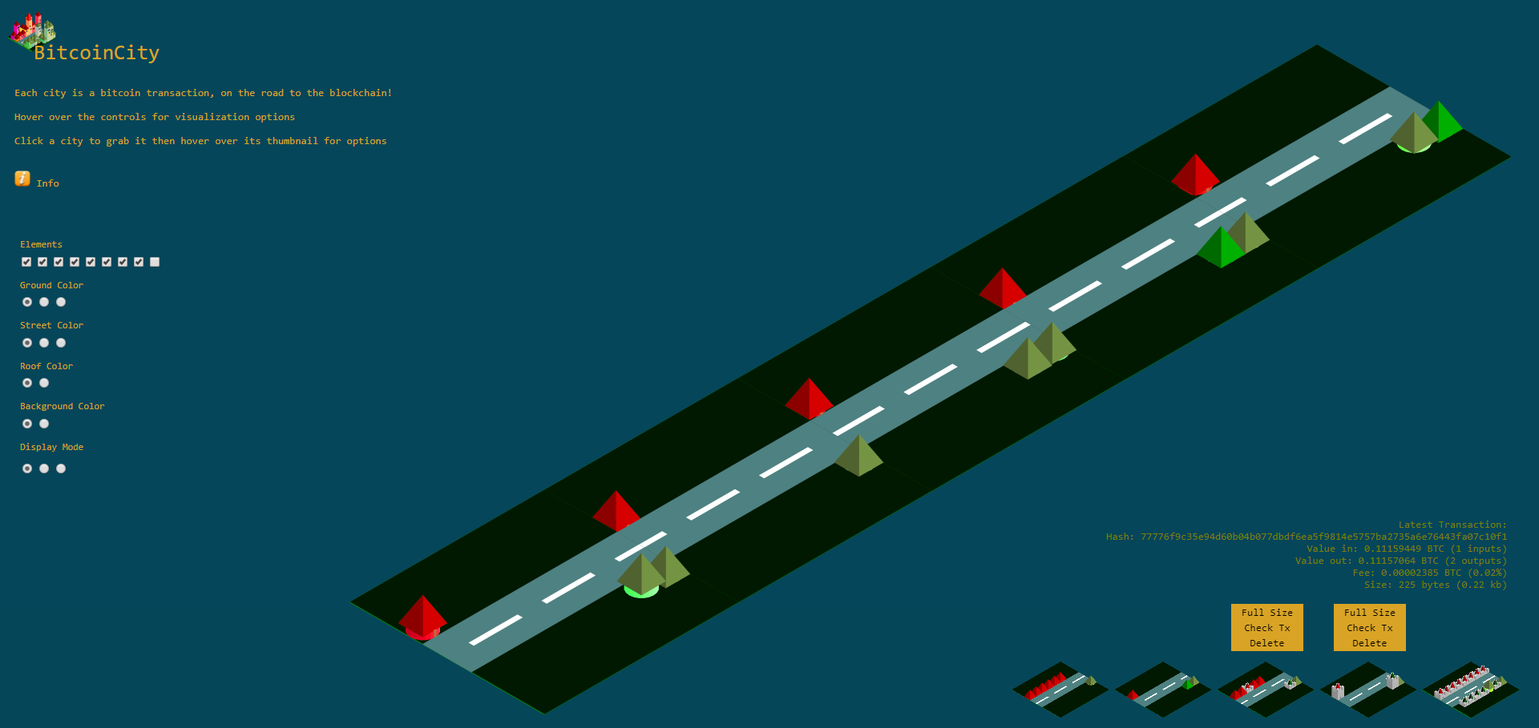
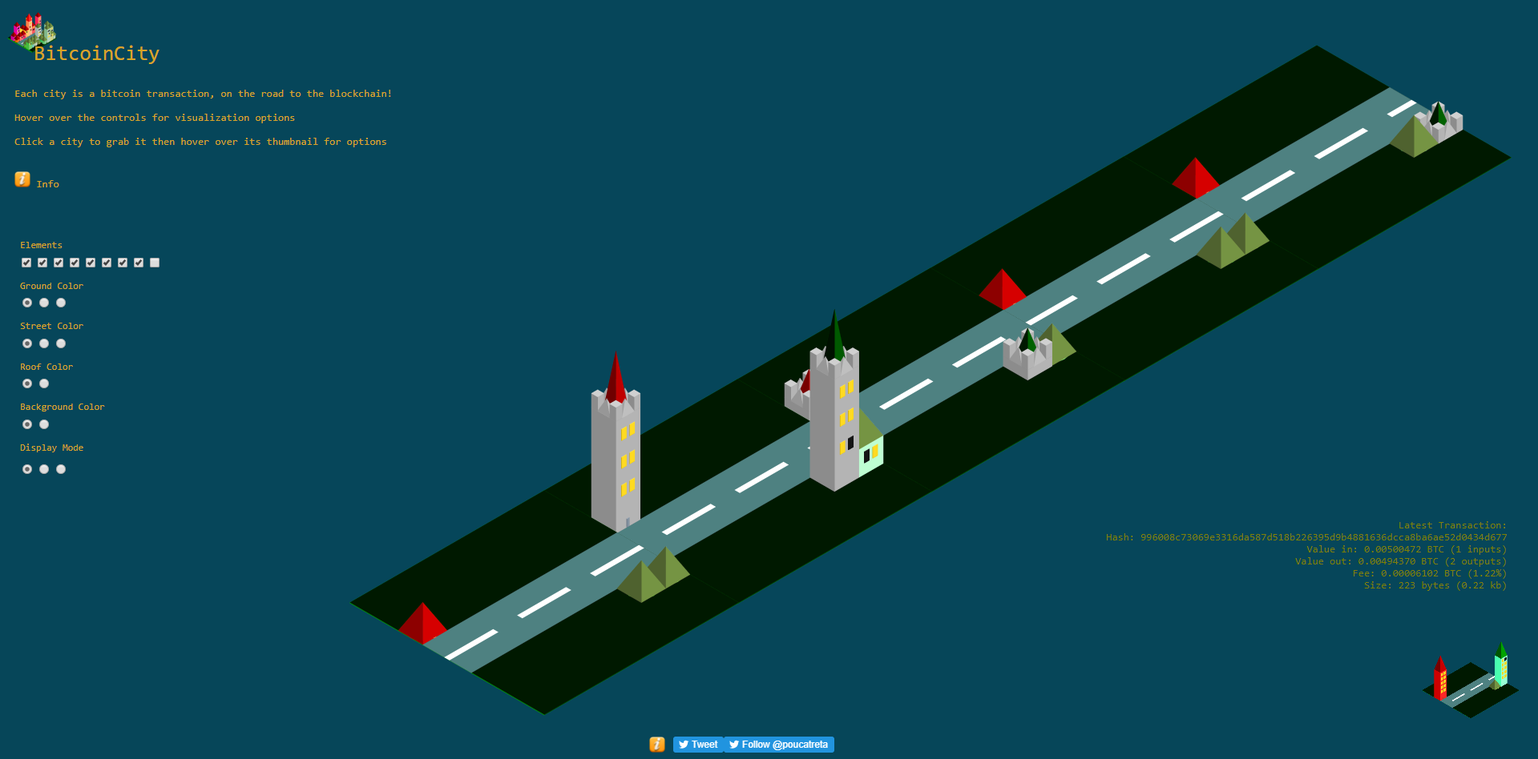
add related figures

diff --git a/chapters/c02_related_works.tex b/chapters/c02_related_works.tex
@@ -8,8 +8,6 @@ Since the blockchain technology is proposed, different methods for visualization
         An analysis of the consensus protocols on the blockchain networks is an interesting topic as it can reveal the potential applications on blockchain platforms.
 \end{itemize}
 
-% TODO: deep analyze the visualization
-
 \section{Visualization of Blockchain Information}
 
 There are some online tools and applications that provide visualization of the static status and information of transactions and blocks on Bitcoin network. Tri A. Sundara et al. \cite{Sundara2017} summarized 8 visualization applications and compared their visualization methods and technologies. We shortly review these applications here, so the main difference between our application and them can be identified clearly.
@@ -25,7 +23,7 @@ There are some online tools and applications that provide visualization of the s
             \label{fig:bitbonkers}
         \end{figure}
     \item \textbf{Bitnodes} \cite{bitnodes} \\
-        Bitnodes focused on the visualization of the distribution of nodes on Bitcoin network. The density of nodes can be observed clearly on the world map. (Figure \ref{fig:bitnodes})
+        Bitnodes focused on the visualization of the distribution of nodes on Bitcoin network. The density of nodes indicates the most active areas on Bitcoin network in the world.(Figure \ref{fig:bitnodes})
         \begin{figure}[htb]
             \centering
             \includegraphics[width=\textwidth]{related_bitnodes}
@@ -35,7 +33,7 @@ There are some online tools and applications that provide visualization of the s
     \clearpage
     \vspace*{\fill}
     \item \textbf{BitcoinCity} \cite{bitcoincity} \\
-        BitcoinCity is a cute visualization of Bitcoin. It used a road to chain the blocks, and the houses with different heights on both sides of the road represented transactions. (Figure \ref{fig:bitcoincity})
+        BitcoinCity built a small city as the visualization of Bitcoin. It used a road to chain the blocks, and the houses with different heights on both sides of the road represented transactions with different values. (Figure \ref{fig:bitcoincity})
         \begin{figure}[htb]
             \centering
             \includegraphics[width=\textwidth]{related_bitcoincity}
@@ -43,7 +41,7 @@ There are some online tools and applications that provide visualization of the s
             \label{fig:bitcoincity}
         \end{figure}
     \item \textbf{Blockseer} \cite{blockseer} \\
-        Blockseer visualized the detailed information of accounts, transactions or blocks with tree structures. (Figure \ref{fig:blockseer})
+        Blockseer located a mined transaction and visualized the outputs of the transaction. For example, the screenshot shows there are nine outputs of the transaction which in at the root of the tree structure. That is, the transaction is divided into nine parts which are delivered to different addresses respectively. (Figure \ref{fig:blockseer})
         \begin{figure}[htb]
             \centering
             \includegraphics[width=\textwidth]{related_blockseer}
@@ -54,7 +52,7 @@ There are some online tools and applications that provide visualization of the s
     \clearpage
     \vspace*{\fill}
     \item \textbf{DailyBlockchain} \cite{dailyblockchain} \\
-        DailyBlockchain  displayed the spread of dynamic and live Bitcoin network. (Figure \ref{fig:dailyblockchain})
+        DailyBlockchain displayed the mined transactions as the biological cells. The size of the cell are determined by the number of outputs of the transaction. The cells are generated from the center and spread toward every direction. (Figure \ref{fig:dailyblockchain})
         \begin{figure}[htb]
             \centering
             \includegraphics[width=\textwidth]{related_dailyblockchain}
@@ -62,7 +60,7 @@ There are some online tools and applications that provide visualization of the s
             \label{fig:dailyblockchain}
         \end{figure}
     \item \textbf{Elliptic} \cite{elliptic} \\
-        Elliptic visualized the whole history of Bitcoin like the Big Bang of the universe. (Figure \ref{fig:elliptic})
+        Elliptic visualized the whole history of Bitcoin like the Big Bang of the universe. However, the oldest blocks are placed at the center of the universe, which is opposite to the Big Bang theory in the reality. The blocks are divided by the dotted circles according to their birth years. (Figure \ref{fig:elliptic})
         \begin{figure}[htb]
             \centering
             \includegraphics[width=\textwidth]{related_elliptic}
@@ -72,7 +70,7 @@ There are some online tools and applications that provide visualization of the s
     \vspace*{\fill}
     \clearpage
     \item \textbf{Interaqt} \cite{interaqt} \\
-        Interaqt rendered the Bitcoin transactions as circles. (Figure \ref{fig:interaqt})
+        Interaqt gathered the mined transactions which are represented in circles into a big circle. The screen is empty at first, the more and more transactions will join into the big circle as time passes. (Figure \ref{fig:interaqt})
         \begin{figure}[htb]
             \centering
             \includegraphics[width=\textwidth]{related_interaqt}
@@ -80,7 +78,7 @@ There are some online tools and applications that provide visualization of the s
             \label{fig:interaqt}
         \end{figure}
     \item \textbf{Live Globe} \cite{liveglobe} \\
-        Live Globe combined the geographies of blocks and the earth together in the visualization. (Figure \ref{fig:live globe})
+        Live Globe combined the geographies of blocks and the earth together in the visualization. There are two blocks that are placed at the position of New York City in the screenshot. However, the color of the blocks are also green, so it is difficult to distinguish them. (Figure \ref{fig:live globe})
         \begin{figure}[htb]
             \centering
             \includegraphics[width=\textwidth]{related_liveglobe}
@@ -89,58 +87,141 @@ There are some online tools and applications that provide visualization of the s
         \end{figure}
 \end{itemize}
 
-In addition to the 2D and 3D animations of the visualization of Bitcoin, there are applications which use tabular methods as the presentation of blockchains. Blockchain \cite{blockchain} and Etherscan \cite{etherscan} displayed the information of transactions and blocks in detail on Bitcoin and Ethereum networks. The results of them are demonstrated in Figure \ref{fig:tabular visualization}.
+\clearpage
 
-\begin{figure}[htb]
-    \centering
-    \begin{subfigure}[b]{1\textwidth}
-        \centering
-        \includegraphics[width=\textwidth]{related_blockchain}
-        \caption{Blockchain}
-    \end{subfigure}
+In addition to the 2D and 3D animations of the visualization of Bitcoin, there are applications which use tabular methods as the visualization of blockchains.
 
-    \begin{subfigure}[b]{1\textwidth}
-        \centering
-        \includegraphics[width=\textwidth]{related_etherscan}
-        \caption{Etherscan}
-    \end{subfigure}
+\begin{itemize}
+    \item \textbf{Blockchain} \cite{blockchain} \\
+        The tabular (Figure \ref{fig:blocks by blockchain}) contains the height, the timestamp, the mined transactions, the total values, the size, etc. of mined blocks on Bitcoin network. The details information of a block can be viewed by selecting it, and then the list of included transactions with addresses, inputs, and outputs (Figure \ref{fig:transactions by blockchain}) is displayed.
 
-    \caption{Tabular Visualization.}
-    \label{fig:tabular visualization}
-\end{figure}
+        \begin{figure}[htb]
+            \centering
+            \begin{subfigure}[b]{1\textwidth}
+                \centering
+                \includegraphics[width=\textwidth]{related_blockchain}
+                \caption{Blocks by Blockchain.}
+                \label{fig:blocks by blockchain}
+            \end{subfigure}
 
-In short conclusion, although the above tools and applications showed amazing visualization methods of blockchains, their goals were to provide the static information and statistics instead of the dynamic mining processes that happened in a blockchain system. It is difficult to gain valuable understandings about the complex and dynamic mining processes in these applications.
+            \begin{subfigure}[b]{1\textwidth}
+                \centering
+                \includegraphics[width=\textwidth]{related_blockchain2}
+                \caption{Transactions by Blockchain}
+                \label{fig:transactions by blockchain}
+            \end{subfigure}
+
+            \caption{Blockchain.}
+        \end{figure}
+    \item \textbf{Etherscan} \cite{etherscan} \\
+        Etherscan which is for Ethereum network is similar to Blockchain, but it places the information of blocks and transactions in the same page. The top right part displays the line chart of the marketing value of Ethereum. The list of blocks is placed on the bottom left of the page, and the list of transactions is at the bottom right part. The details can also be checked by selecting individual blocks or transactions. (Figure \ref{fig:etherscan})
+        \begin{figure}[htb]
+            \centering
+            \includegraphics[width=\textwidth]{related_etherscan}
+            \caption{Etherscan.}
+            \label{fig:etherscan}
+        \end{figure}
+\end{itemize}
+
+In short conclusion, although the above tools and applications showed visualization methods of blockchains, their goals are to provide the static information and statistics instead of the dynamic mining processes that happen in a blockchain system. It is difficult to gain valuable understandings about the complex and dynamic mining processes in these applications.
 
 \section{Analysis of Bitcoin Transactions}
 
 As Bitcoin is the most popular and famous blockchain network currently, it is worth to explore the patterns of transactions and blocks to prevent malicious abuse of blockchain services. The nodes and transactions are anonymous on blockchain networks, so the recognition of patterns can be challengeable. Here we present some analysis methods and visualization technologies that can identify the relationships between nodes and transactions in time series on Bitcoin network.
 
+\clearpage
+
 \begin{itemize}
     \item \textbf{BitConeView: Visualization of Flows in the Bitcoin Transaction Graph} \cite{Battista2015} \\
-        Giuseppe Di Battista et al. provided a visualization tool called \textit{BitConeView} that analyzed the flows of bitcoins in the transactions by timestamps. It can be used to analyze the patterns of the flows of bitcoins and locate tainted transactions.
+        Giuseppe Di Battista et al. provided a visualization tool called \textit{BitConeView} that analyzed the flows of bitcoins in the transactions by timestamps. It can be used to analyze the patterns of the flows of bitcoins and locate tainted transactions. Figure \ref{fig:bitconeview} \cite{Battista2015} shows that the flows of bitcoins are visualized in time series, and the lifetime of a bitcoin can be tracked in the connected bars which are blocks.
+        \begin{figure}[htb]
+            \centering
+            \includegraphics[width=0.6\textwidth]{related_bitconeview}
+            \caption{BitConeView.}
+            \label{fig:bitconeview}
+        \end{figure}
     \item \textbf{Blockchain Explorer: An Analytical Process and Investigation Environment for Bitcoin} \cite{Kuzuno2017} \\
-        To prevent the criminal activities and illegal behaviors that abuse the services of Bitcoin, Hiroki Kuzuno et al. proposed an analyzing system which managed the data and statistics of blockchains for the usages of law enforcement investigation and training.
+        To prevent the criminal activities and illegal behaviors that abuse the services of Bitcoin, Hiroki Kuzuno et al. proposed an analyzing system which managed the data and statistics of blockchains for the usages of law enforcement investigation and training. 
+        Figure \ref{fig:analysis methods by blockchain explorer} \cite{Kuzuno2017} shows the analysis methods in the visualization. The line chart on the left side represents the balance of an address, and the bar charts on the right side represent the number of transactions in hours or weeks.
+        \begin{figure}[htb]
+            \centering
+            \includegraphics[width=0.7\textwidth]{related_blockchain_explorer}
+            \caption{Analysis methods by Blockchain Explorer.}
+            \label{fig:analysis methods by blockchain explorer}
+        \end{figure}
+        \clearpage
+        Figure \ref{fig:activities of an address by blockchain explorer} \cite{Kuzuno2017} displays the activities of an address in calendars. The bright squares indicate the time when the address published transactions.
+        \begin{figure}[htb]
+            \centering
+            \includegraphics[width=0.6\textwidth]{related_blockchain_explorer2}
+            \caption{Activities of an address by Blockchain Explorer.}
+            \label{fig:activities of an address by blockchain explorer}
+        \end{figure}
+
+        Figure \ref{fig:mappings of inputs and outputs in a transaction bblockchain explorer} \cite{Kuzuno2017} maps the inputs and outputs of a transaction into tree structures. As a result, the flows of bitcoins can be tracked by the input and output nodes. 
+        \begin{figure}[htb]
+            \centering
+            \includegraphics[width=0.4\textwidth]{related_blockchain_explorer3}
+            \caption{Mappings of inputs and outputs in a transaction by Blockchain Explorer.}
+            \label{fig:mappings of inputs and outputs in a transaction bblockchain explorer}
+        \end{figure}
+
+        With above visualization, the activities of an address and the mappings to the real identification can be explored.
+        \clearpage
     \item \textbf{Visualizing Dynamic Bitcoin Transaction Patterns} \cite{McGinn2016} \\
-        Dan McGinn et al. focused on visualizing transactions of Bitcoin from the top-down viewpoint. The visualization of the large scale of data provided domain experts and the general public a tool to analyze and identify the transaction patterns with big data visualization methods.
+        Dan McGinn et al. focused on visualizing transactions of Bitcoin from the top-down viewpoint. The visualization of the large scale of data provided domain experts and the general public a tool to analyze and identify the transaction patterns with big data visualization methods. Figure \ref{fig:visualization by dan mcGinn et al} \cite{McGinn2016} shows the visualization result. The blocks are connected by lines if they contain related transactions. Thus, different patterns can be identified in the graphs.
+        \begin{figure}[htb]
+            \centering
+            \includegraphics[width=0.4\textwidth]{related_McGinn}
+            \caption{Visualization by Dan McGinn et al.}
+            \label{fig:visualization by dan mcGinn et al}
+        \end{figure}
     \item \textbf{Bitcoin Visualization} \cite{Saublet2015} \\
-        The visual analytics tool that was proposed by Loïs Saublet enabled economists to analyze the metrics and actors on Bitcoin network and provided good user experience by working together with end users.
+        The visual analytics tool that was proposed by Loïs Saublet enabled economists to analyze the metrics and actors on Bitcoin network and provided good user experience by working together with end users. As in Figure \ref{fig:visualization by loïs saublet} \cite{Saublet2015} shows, a period of Bitcoin marketing values can be displayed by a line chart, and economists can examine it.
+        \begin{figure}[htb]
+            \centering
+            \includegraphics[width=0.8\textwidth]{related_Saublet}
+            \caption{Visualization by Loïs Saublet.}
+            \label{fig:visualization by loïs saublet}
+        \end{figure}
     \item \textbf{Bitcoin Transaction Graph Analysis} \cite{Fleder2015} \\
-        Michael Fleder et al. proposed a graph-analysis framework that could analyze the relationships between public addresses and transactions. It can be used to match candidate Bitcoin transactions with the transactions in the reality. As a result, it demonstrated that the transactions are not entirely anonymous on Bitcoin network.
+        Michael Fleder et al. proposed a graph-analysis framework that could analyze the relationships between public addresses and transactions. It can be used to match candidate Bitcoin transactions with the transactions in the reality. As a result, it demonstrated that the transactions are not entirely anonymous on Bitcoin network. Figure \ref{fig:visualization of the transaction graph} \cite{Fleder2015} shows the transaction graph which gathers the data in a whole day. The relationships of transactions can be identified via the connections. The thichness of the lines are the values, so several patterns such as large volume transactions can be analyzed.
+        \begin{figure}[htb]
+            \centering
+            \includegraphics[width=0.8\textwidth]{related_Fleder}
+            \caption{Visualization of the transaction graph.}
+            \label{fig:visualization of the transaction graph}
+        \end{figure}
     \item \textbf{Exploring the Bitcoin Network} \cite{Baumann2014} \\
-        The method proposed by Annika Baumann et al. employed graph mining algorithms to analyze the relationship of network usage and exchange rate. It served as the basis for the analysis of the anonymity and economic relationships on Bitcoin network.
+        The method proposed by Annika Baumann et al. employed graph mining algorithms to analyze the relationship of network usage and exchange rate. It served as the basis for the analysis of the anonymity and economic relationships on Bitcoin network. They used statistical bar charts or line charts for visualization as Figure \ref{fig:visualization by annika baumann et al} \cite{Baumann2014} shows.
+        \begin{figure}[htb]
+            \centering
+            \includegraphics[width=0.8\textwidth]{related_Baumann}
+            \caption{Visualization by Annika Baumann et al.}
+            \label{fig:visualization by annika baumann et al}
+        \end{figure}
 \end{itemize}
 
-In summary, the goals of the above tools and methods were to analyze the patterns and relationships of transactions and blocks. That is, they try to recognize patterns to prevent criminal activities and obtain economic inspiration. Therefore, The visualization results of the above literature served as bases and presentations for the analysis instead of the mining processes.
+In summary, the goals of the above tools and methods are to analyze the patterns and relationships of transactions and blocks. That is, they try to recognize patterns to prevent criminal activities and obtain economic inspiration. Therefore, the visualization results of the above literature are more like statistical results for the analysis instead of the mining processes.
 
 \section{Analysis of Consensus Protocols}
 
-To analyze the network conditions of the proof-of-work based blockchain system, Amitai Porat et al. \cite{Porat} provided an application that was based on Ethereum platform. It simulated the asynchronous mining activities and network latency, and provided a real-time analysis of the blockchain system. They presented the potential applications of the blockchain technology through the analysis.
+To analyze the network conditions of proof-of-work based blockchain system, Amitai Porat et al. \cite{Porat} provided an application that was based on Ethereum platform. It simulates the asynchronous mining activities and network latency, and provided a real-time analysis of the blockchain system. They presented the potential applications of the blockchain technology through the analysis.
 
-The main difference to our work is that we assume that miners have individual mining strategies instead of solving the same puzzles asynchronously. Therefore, there are miners who are able to solve the puzzles faster than the others under the same computing power, but they may suffer lower mining rewards. The combination of different mining strategies and the network delay makes the visualization of the blockchain system dynamic and undetermined. Thus our solution is suitable for researchers to find the influences of different factors on the blockchain system. Moreover, their work focused on finding the potential applications of Ethereum platform. On the other hand, our work emphasize on visualizing the continuous mining processes while miners have different mining strategies and suffer from the network delay. 
+Figure \ref{fig:visualization by amitai porat et al} \cite{Porat} shows the visualization by Amitai Porat et al. The visualization is very simple, as the blocks are chained by lines. Therefore, the miners of the blocks cannot be identified in the visualization.
+
+\begin{figure}[htb]
+    \centering
+    \includegraphics[width=0.8\textwidth]{related_Porat}
+    \caption{Visualization by Amitai Porat et al.}
+    \label{fig:visualization by amitai porat et al}
+\end{figure}
+
+The main difference to our work is that we assume that miners have individual mining strategies which are parameterized, e.g., they select different sets of transactions from transaction pools. Therefore, there are miners who are able to mine blocks faster than the others under the same computing power, but they may suffer lower mining rewards. The combination of different mining strategies and the network delay makes the visualization of the blockchain system dynamic and undetermined. Thus our solution is suitable for researchers to find the influences of different factors on the blockchain system. Moreover, their work focused on finding the potential applications of Ethereum platform. On the other hand, our work emphasize on visualizing the continuous mining processes while miners have different mining strategies and suffer from the network delay. 
 
 \section{Our Approach}
 
-To focus on the dynamic mining activities, our tool provides a real-time visualization of the mining processes that cannot be achieved by the above visualization tools and applications. Through our visualization, users can observe the mining processes step by step. Moreover, our visualization is independent of specific blockchain platforms, e.g., Bitcoin and Ethereum, because we built a simple simulation of the blockchain system by ourselves. Therefore, we can concentrate on the mining processes which is the most important activities in a proof-of-work based blockchain system.
+To focus on the dynamic mining activities, our tool provides a real-time visualization of the mining processes that cannot be achieved by the above visualization tools and applications. Through our visualization, users can observe the mining processes step by step. Moreover, our visualization is independent to specific blockchain platforms, e.g., Bitcoin and Ethereum, because we built a simple simulation of the blockchain system ourselves. Therefore, we can concentrate on the mining processes which are the most important activities in a proof-of-work based blockchain system.
 
 \begin{figure}[htb]
     \centering
@@ -160,6 +241,6 @@ To focus on the dynamic mining activities, our tool provides a real-time visuali
     \label{fig:steps of mining}
 \end{figure}
 
-As we can see in Figure \ref{fig:steps of mining}, the tree structures of the blockchain keep growing while the mining activities continue. The basic visualization ideas of our project are inspired by a former project called “Kooperative Music Box” \cite{musicbox} which was developed by Fraunhofer Blockchain-Labor. It used shapes and colors to distinguish different blocks and transactions which were generated by different nodes. As a result, in the visualization application, the blocks are represented as squares, and they are chained by lines to form tree structures, and the colorful blocks are generated by different miners.
+As we can see in Figure \ref{fig:steps of mining}, the tree structure of the blockchains keeps growing while the mining activities continue. The basic visualization ideas of our project are inspired by a former project called “Kooperative Music Box” \cite{musicbox} which was developed by Fraunhofer Blockchain-Labor. It used shapes and colors to distinguish different blocks and transactions which were generated by different nodes. As a result, in the visualization application, the blocks are represented as squares, and they are chained by lines to form tree structures, and the colorful blocks are generated by different miners.
 
 Our project aims to visualize all the dynamic mining processes that could happen in a blockchain system, with the factors of the network delay and the different mining strategies. This distinguishes our work to all the related works mentioned before. Consequently, our work is worthwhile as a contribution and a trial to the blockchain research area.

diff --git a/chapters/c01_introduction.tex b/chapters/c01_introduction.tex
@@ -8,7 +8,16 @@ In a blockchain system with the proof-of-work protocol, the nodes maintain the b
 
 There are two factors that play important roles in the mining processes: the \textit{network delay} and the different \textit{mining strategies} of miners. While a transaction is published through the blockchain network, each node receives it at a different time due to characteristics of peer-to-peer networks. Therefore, each miner has different pending transactions in the transaction pool at the same time. Moreover, each miner mines a block according to the individual mining strategy simultaneously. The blocks generated by miners are different from each other, and they are also published through the unstable peer-to-peer network. Consequently, it is possible that the set of nodes partitions into different groups that work on different instances of the blockchain. These blockchains are maintained simultaneously until one blockchain becomes longer. The longest blockchain in the network is assumed to be the correct one, which is resolved by the consensus protocol.
 
-% TODO: example image
+% TODO: refine
+
+\begin{figure}[htb]
+    \centering
+    \includegraphics[width=0.6\textwidth]{intro_longest}
+    \caption{Yellow blocks are considered to be the longest blockchain.}
+    \label{fig:yellow blocks are considered to be the longest blockchain}
+\end{figure}
+
+For a simple example, the yellow blocks and red blocks compete with each other at first in Figure \ref{fig:yellow blocks are considered to be the longest blockchain}, but the yellow blocks become longer after some time. As a result, the yellow blocks are considered to be the longest blockchain, and all of the nodes will work on this blockchain.
 
 In a real blockchain system, for example, there are about ten thousand of nodes in Bitcoin in April 2018 from an online statistical result \footnote{\url{https://bitnodes.earn.com/}}. For such wide and massive blockchain networks, it is hard to analyze the individual behavior of each node, e.g., the influences of the mining strategy to the mining processes under the unstable peer-to-peer network. Moreover, the mining processes of a blockchain system described earlier are dynamic and complex. Therefore, to focus on the research of the mining processes in a blockchain system, we decide to provide a visualization application to display the influences of the network delay and the mining strategy on the mining processes step by step.
 
@@ -18,7 +27,7 @@ Figure \ref{fig:the method} explains the basic idea of the solution. The \textit
 
 \begin{figure}[htb]
     \centering
-    \includegraphics[width=\textwidth]{intro_method}
+    \includegraphics[width=0.8\textwidth]{intro_method}
     \caption{The method.}
     \label{fig:the method}
 \end{figure}

diff --git a/chapters/c07_conclusion.tex b/chapters/c07_conclusion.tex
@@ -4,6 +4,11 @@ This thesis proposes the first trial to visualize the complex and dynamic mining
 
 The visualization application helps researchers to conduct experiments and focus on the mining activities which are influenced by the network delay and the mining strategy in the blockchain system. By providing a configuration file which defines all the properties and parameters in the blockchain system, the same mining processes can be replayed by the visualization application. With the discussions of the scenarios, it proves the potential applications of the visualization application.
 
+% reflection:
+% different size of blocks
+% different parameters
+% ethereum?
+
 \section{Future Work}
 
 In the future, we plan to do the following improvements to the visualization application.
